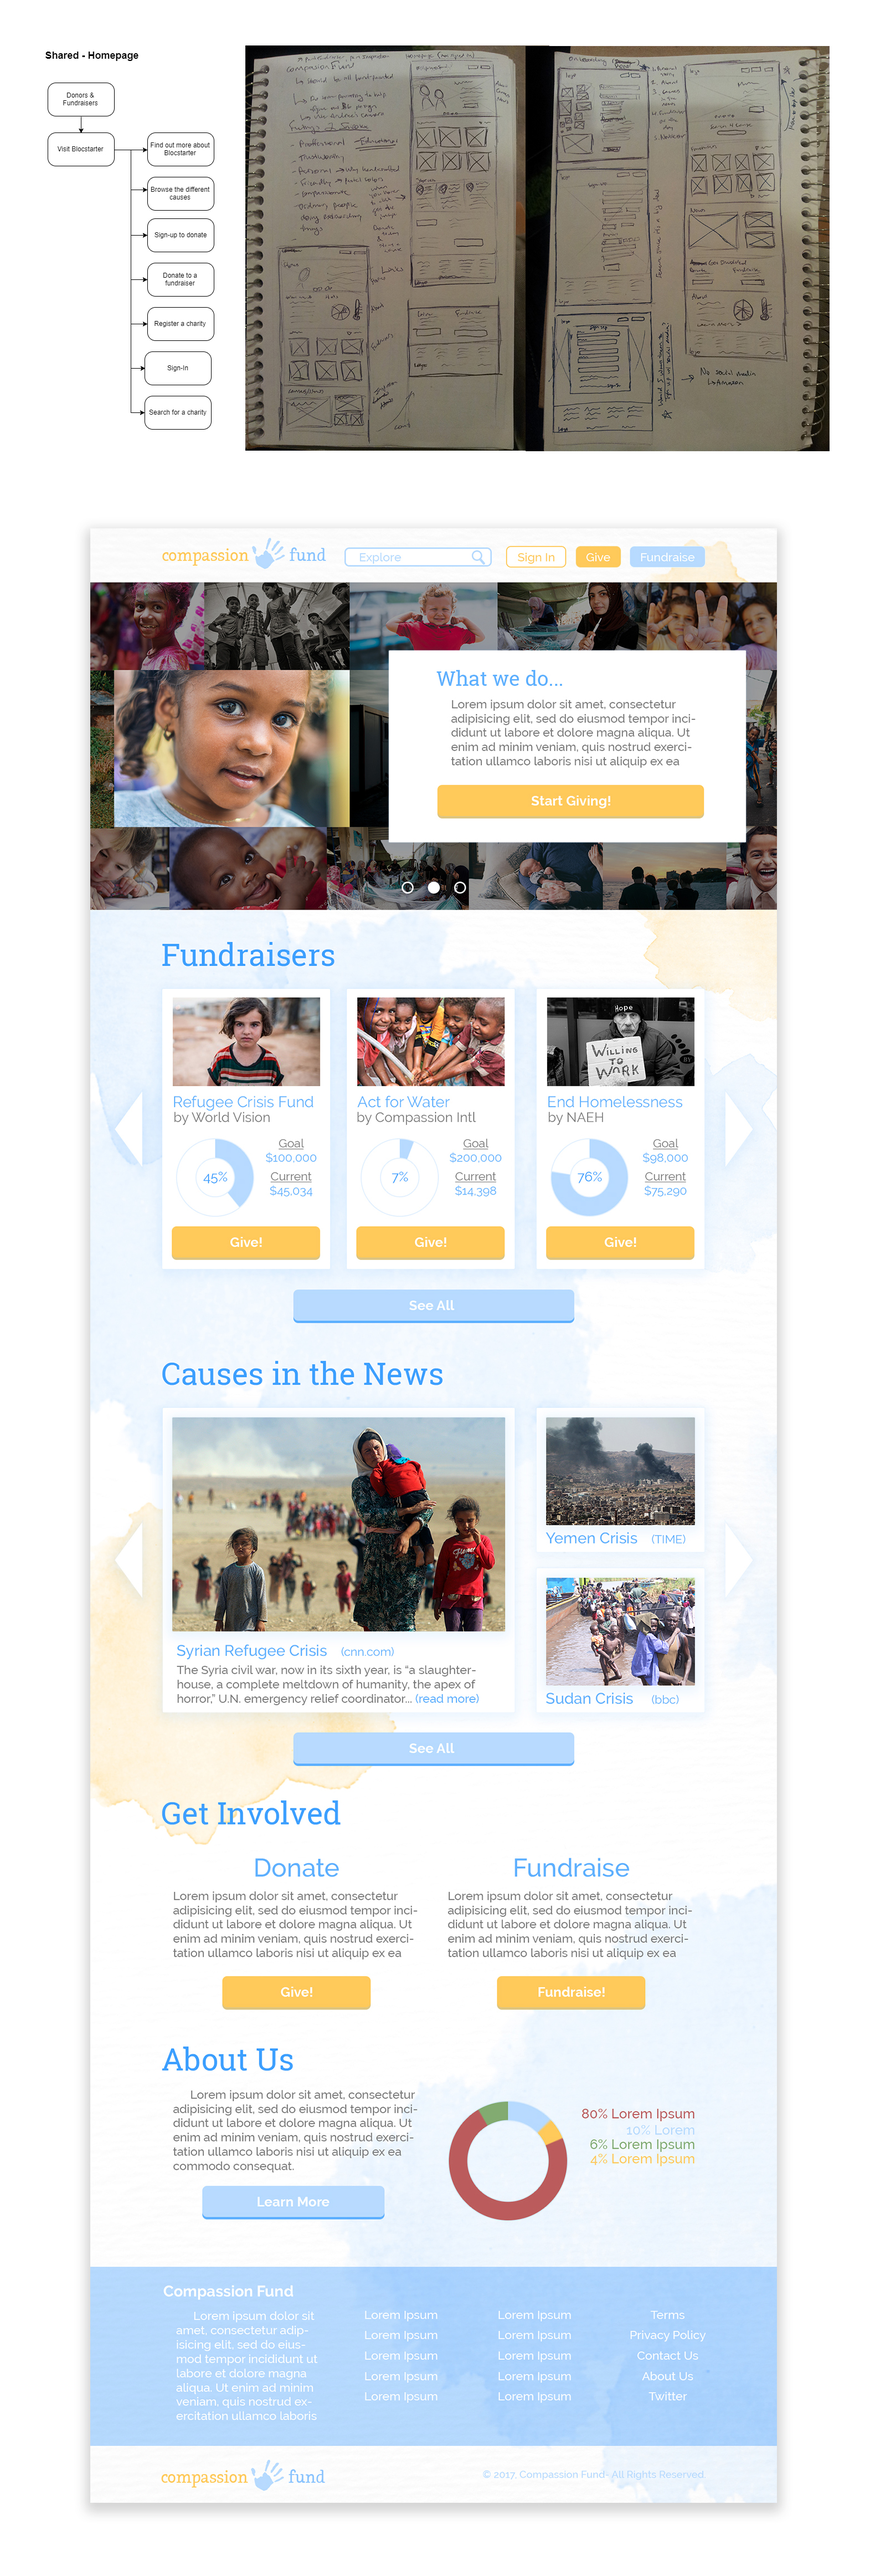
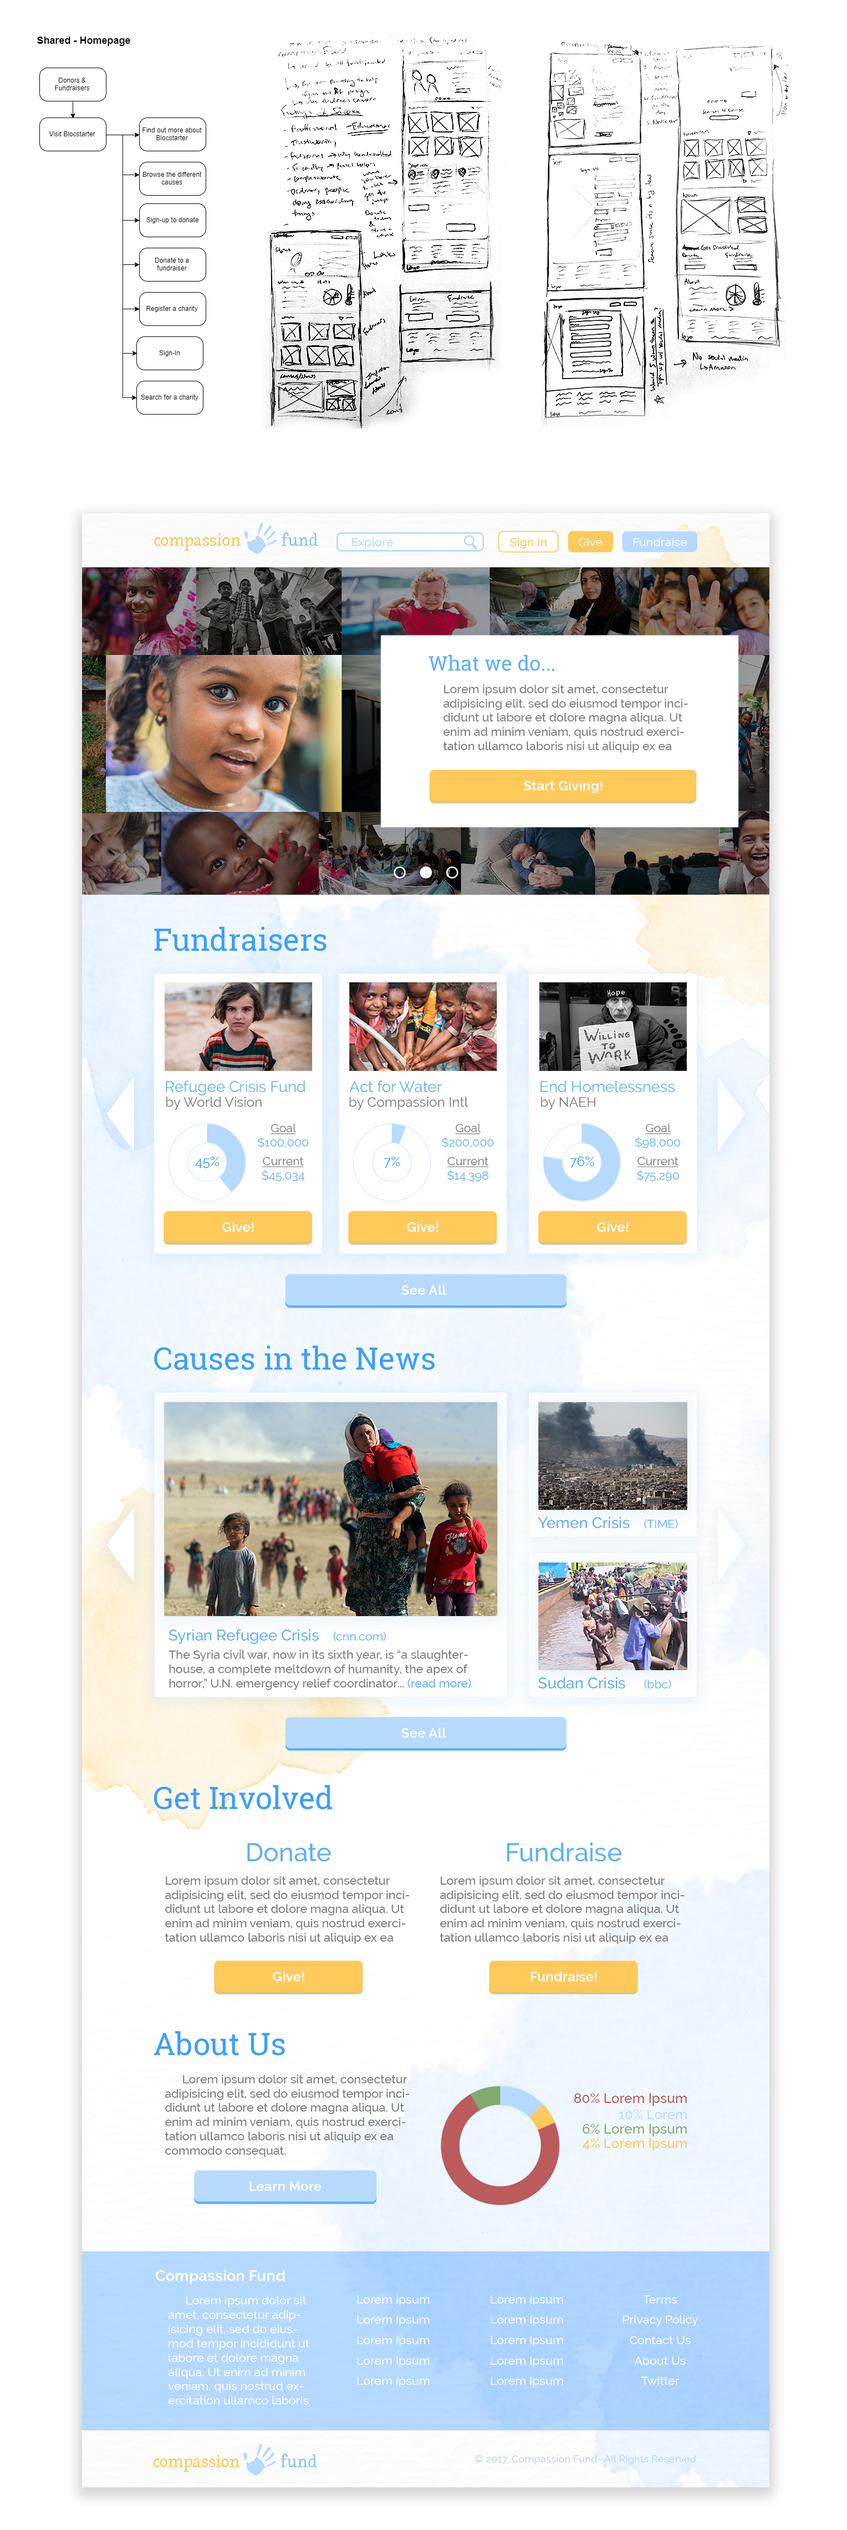
Fix cf_05_final image

Changed region(s): [[0.0923, 0.0, 0.9535, 0.9954], [0.1538, 0.0311, 0.2461, 0.1555], [0.0615, 0.0, 0.1538, 0.0622]]

diff --git a/index.html b/index.html
@@ -287,7 +287,7 @@
       <div class="remodal" data-remodal-id="Compassion-Fund">
         <button data-remodal-action="close" class="remodal-close" aria-label="Close"><img class="x" src="images/cross_light.png"></button>
         <header class="CF-hero">    
-      		<img src="images/mockUp-CF-02.png" class="hero-image">
+      		<img src="images/mockUp-CF.png" class="hero-image">
             <h2 class="hero-header">Compassion Fund</h2>
             <p class="summary">Designed to raise awareness of various causes &amp; needs around the world.</p>
             <li class="btn-outline"><a href="https://invis.io/ATAR80SGU">View Prototype</a></li>
